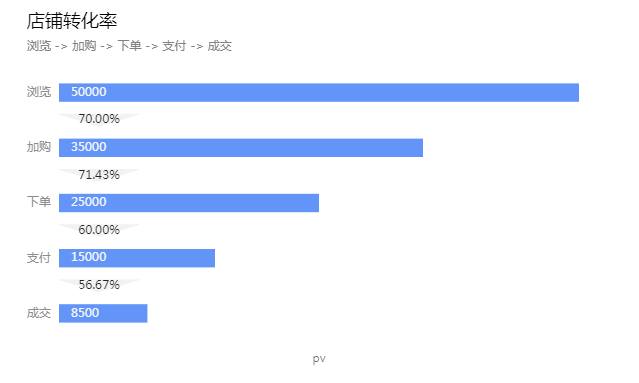
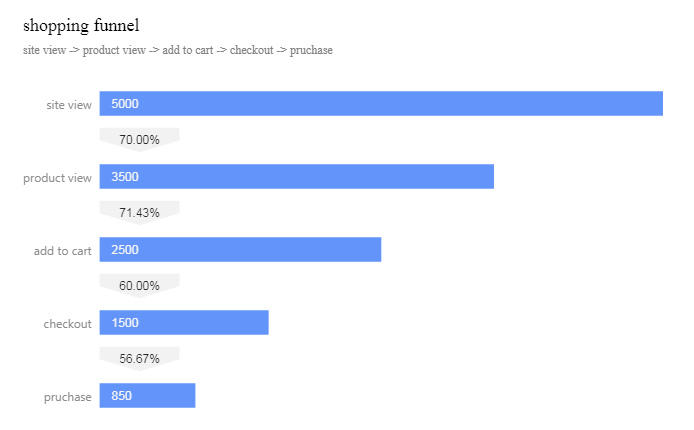
support treemap chart

diff --git a/README.md b/README.md
@@ -22,21 +22,22 @@ devtools::install_github("13kay/rg2")
 library(rg2)
 
 df = jsonlite::fromJSON('[
-{ "action": "浏览", "pv": 5000 },
-{ "action": "加购", "pv": 3500 },
-{ "action": "下单", "pv": 2500 },
-{ "action": "支付", "pv": 1500 },
-{ "action": "成交", "pv": 850 }]')
+{ "action": "site view", "pv": 5000 },
+{ "action": "product view", "pv": 3500 },
+{ "action": "add to cart", "pv": 2500 },
+{ "action": "checkout", "pv": 1500 },
+{ "action": "pruchase", "pv": 850 }]')
 
 cfg = list(
   title = list(
-    visible=TRUE, text='店铺转化率'
+    visible=TRUE, text='shopping funnel'
   ),
   description = list(
-    visible=TRUE, text='浏览->加购->下单->支付->成交'
+    visible=TRUE, text='site view -> product view -> add to cart -> checkout -> pruchase'
   ),
   conversionTag = list(visible=TRUE)
 )
+
 g2Bar(df, pv, action, cfg = cfg)
 ```
 
